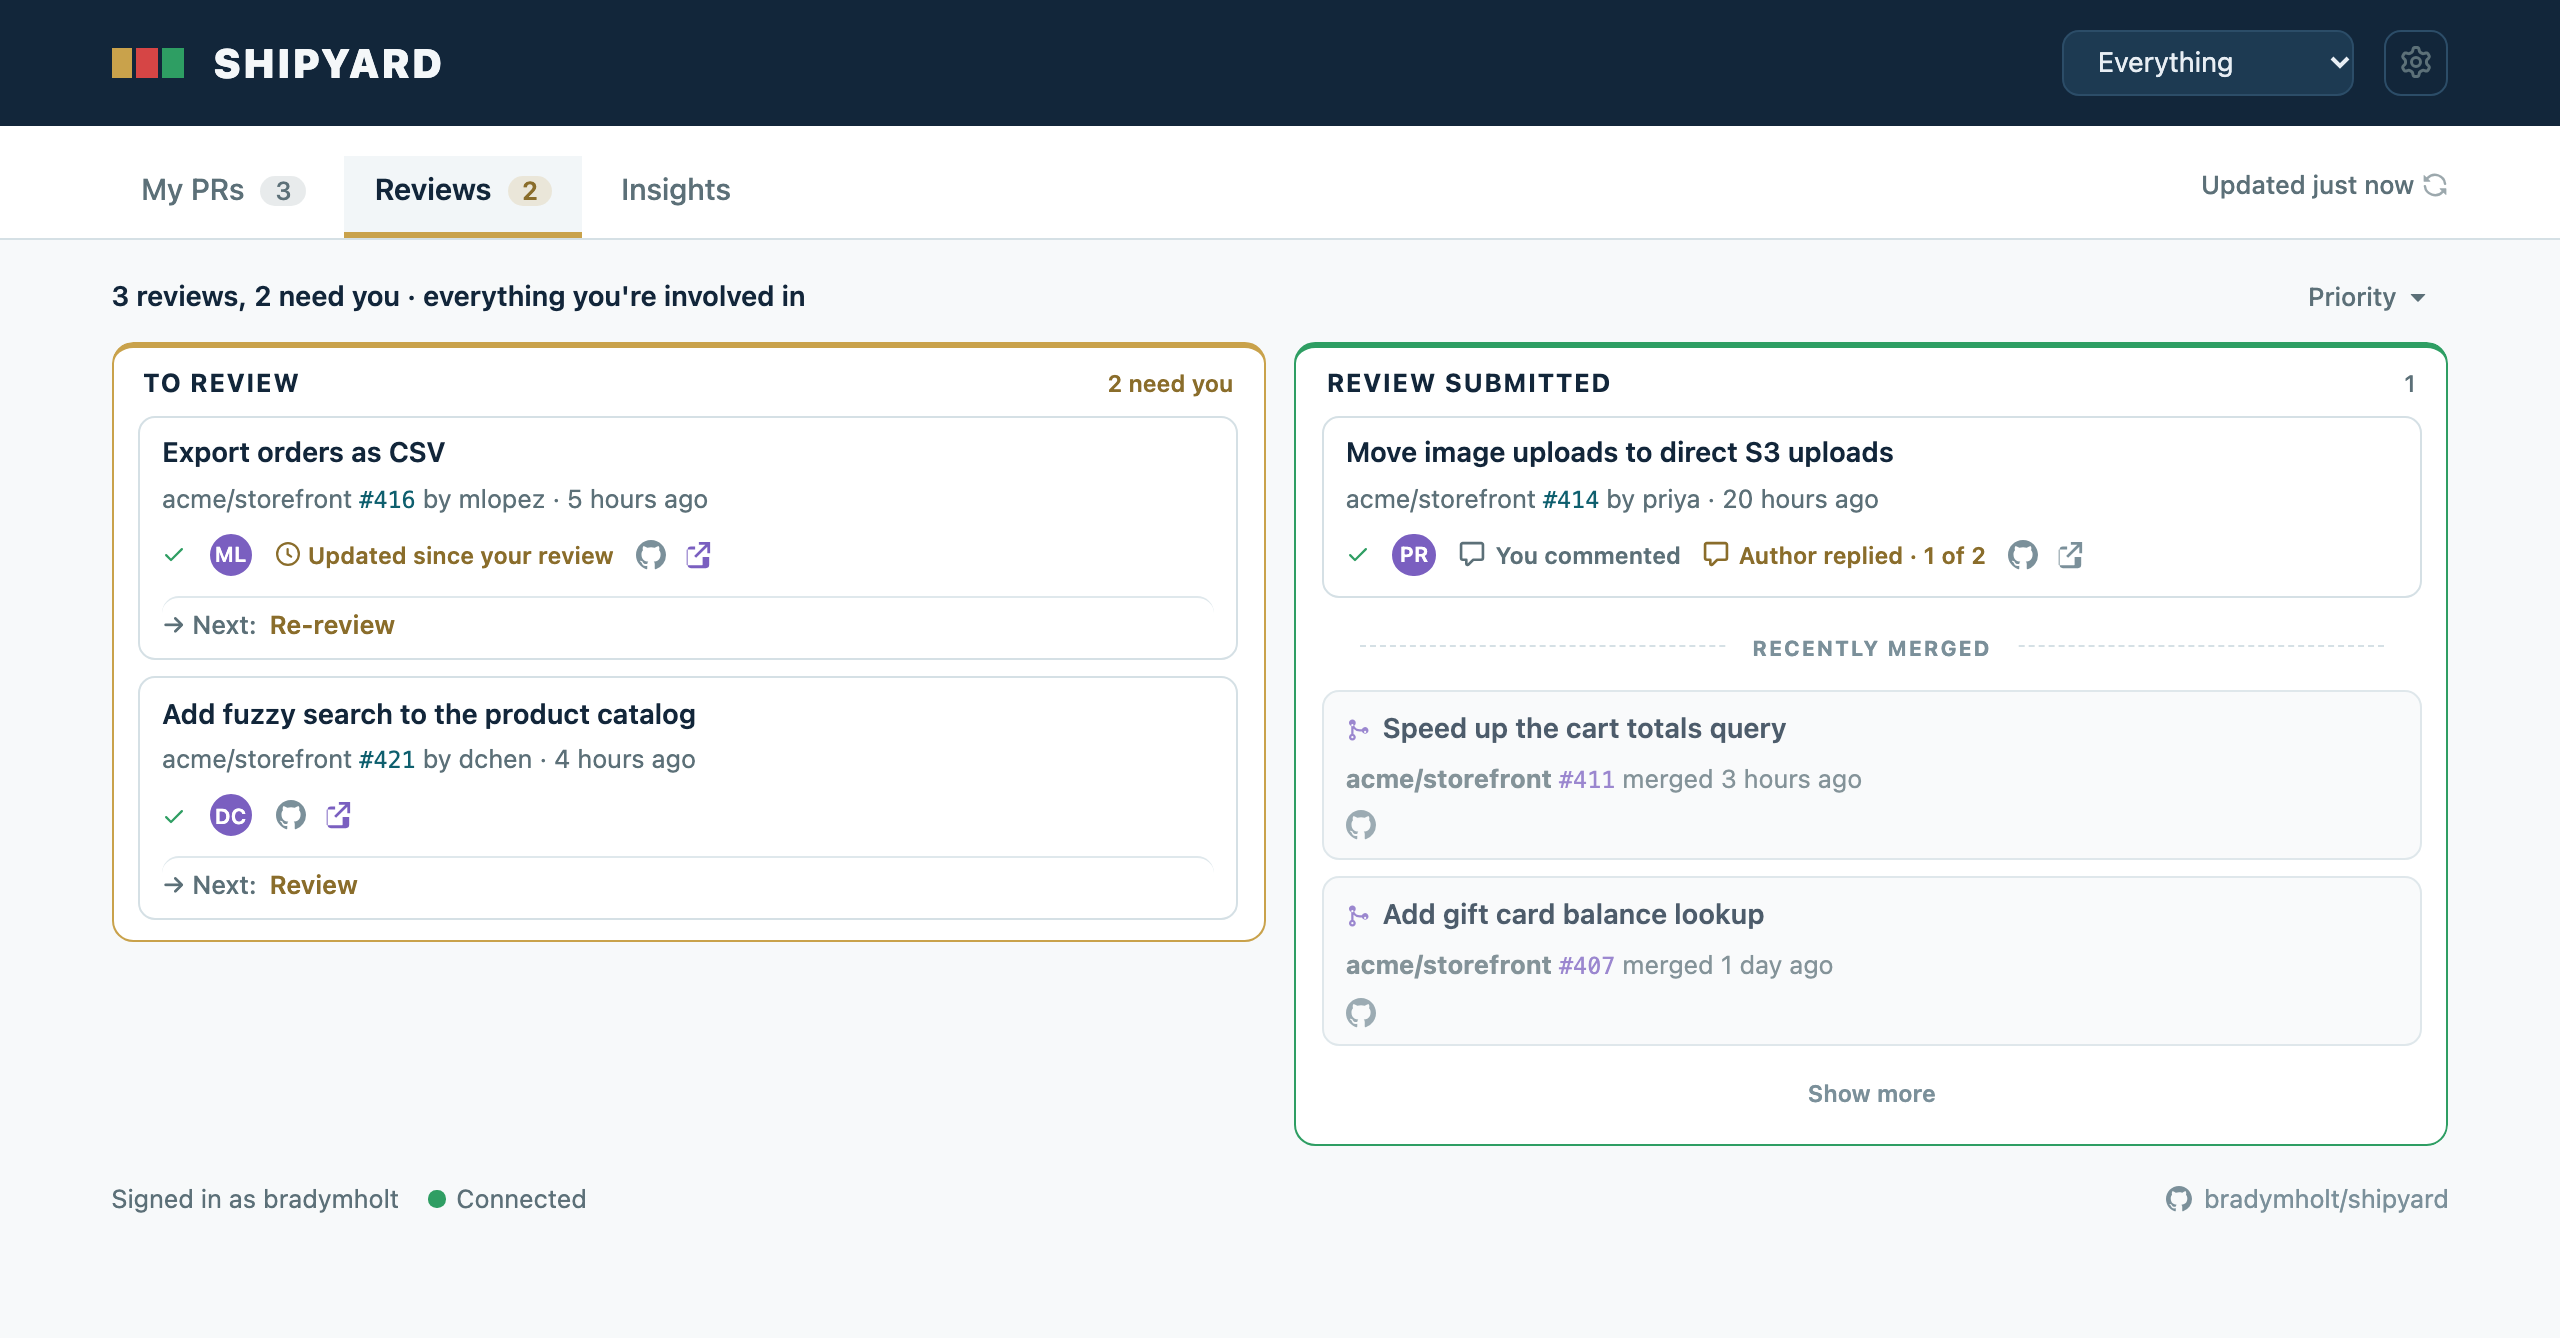
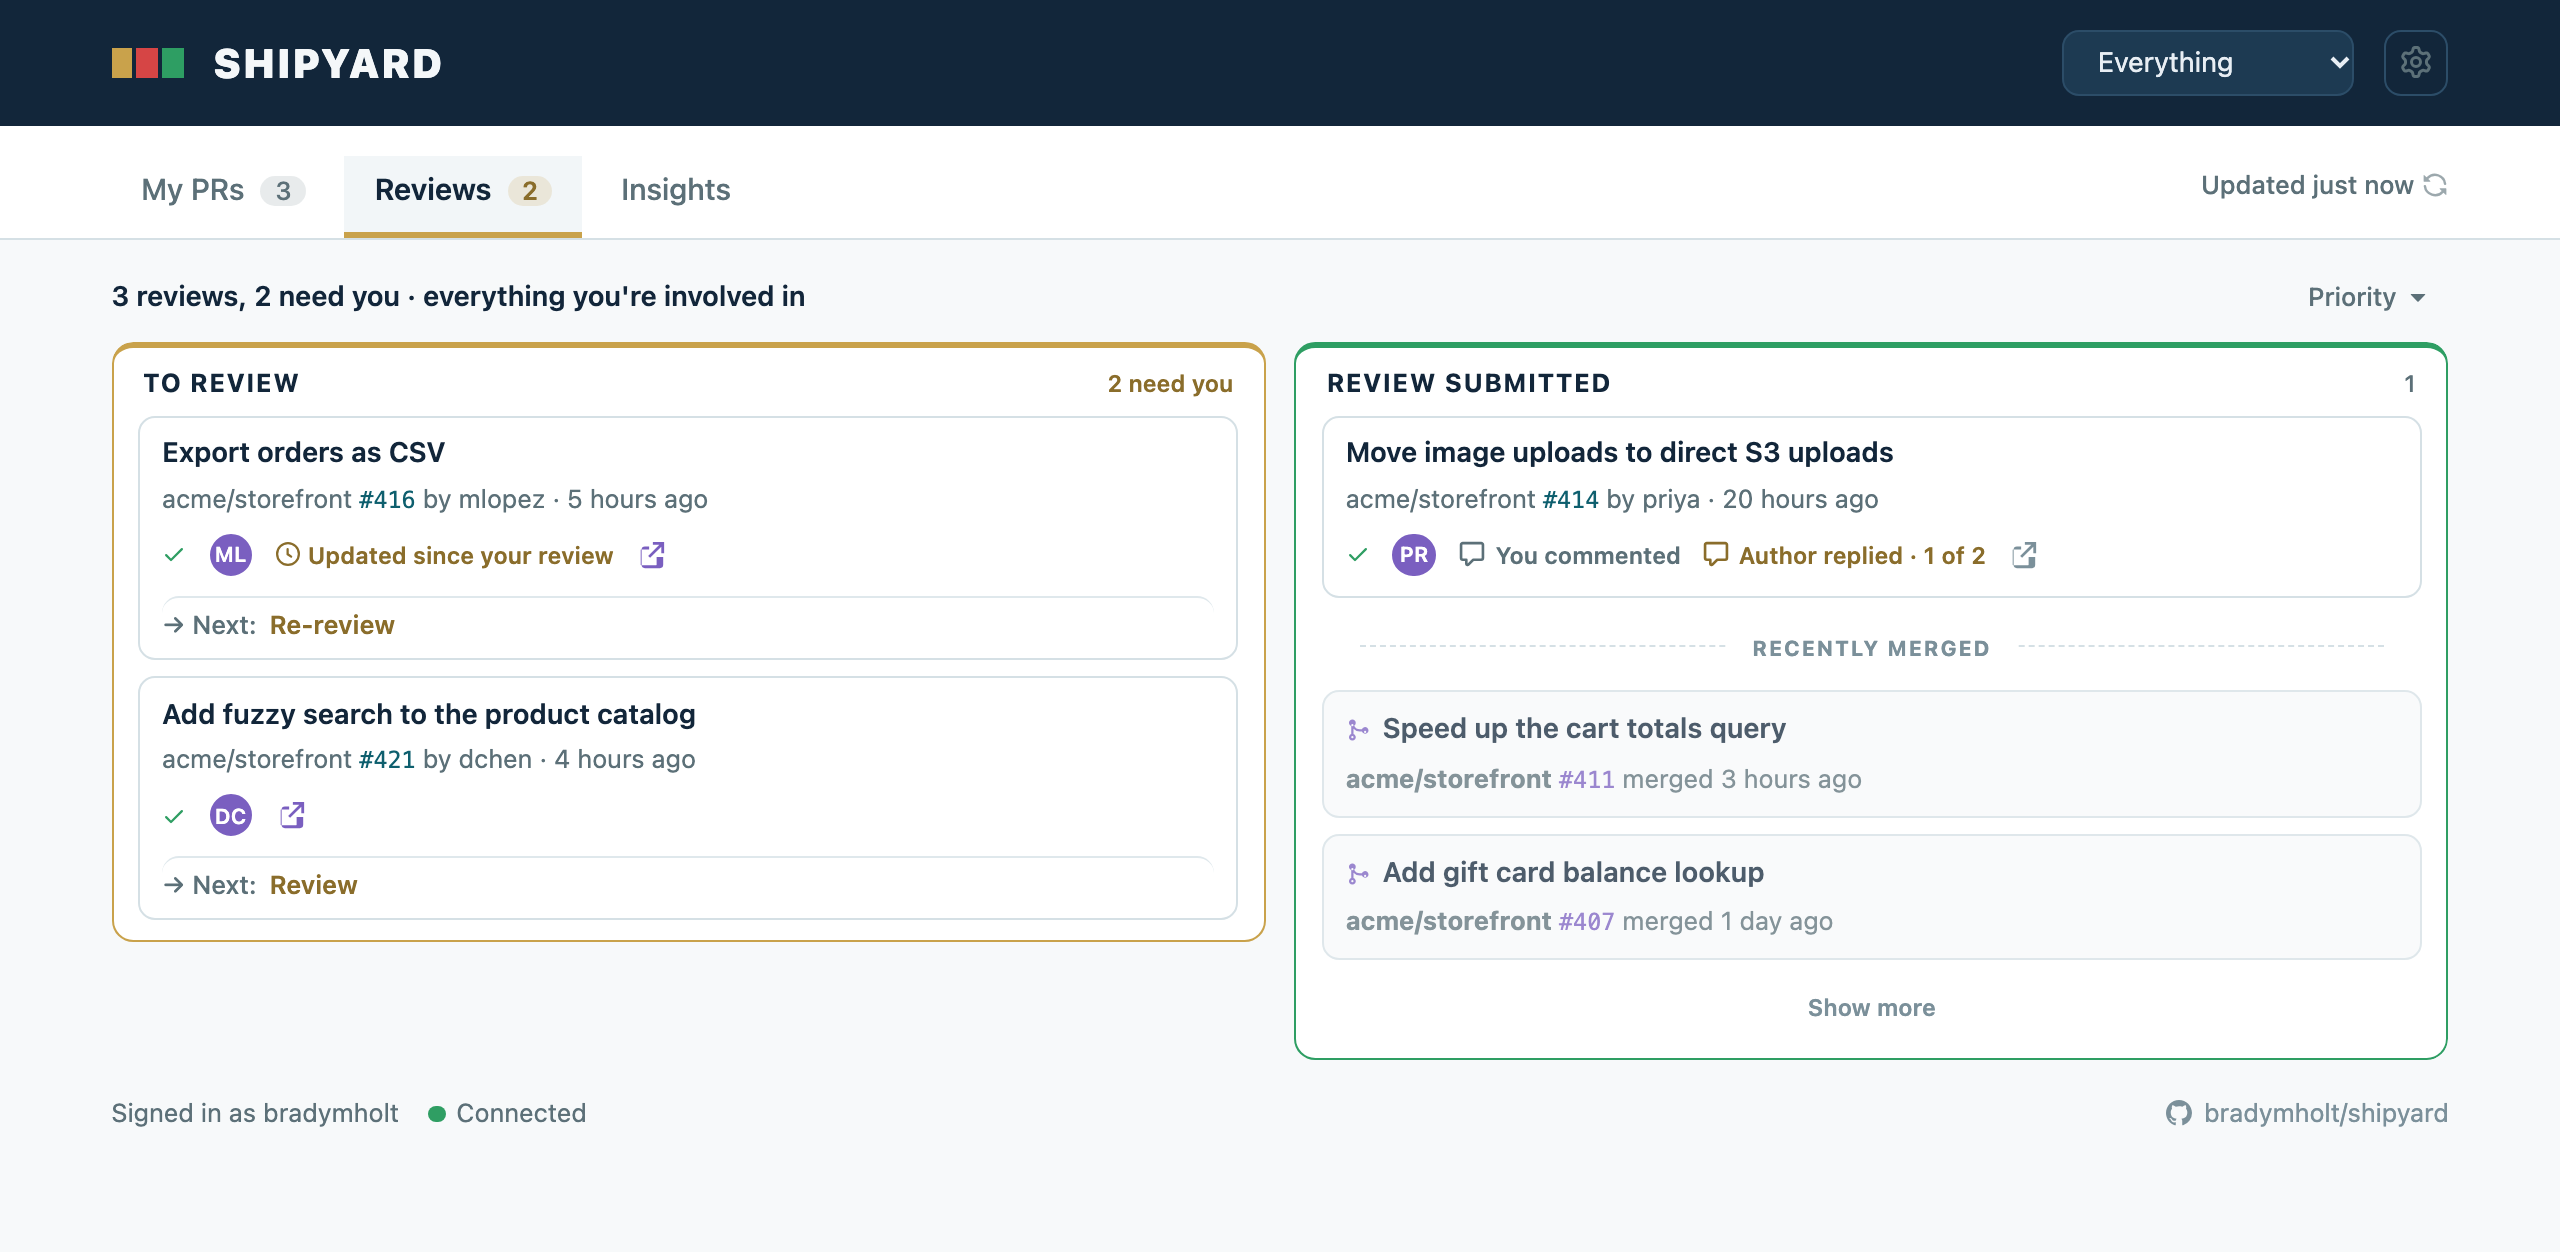
Cut content the card and sidebar showed twice (#226)
A card's GitHub icon opened the same page as its title, and PR session
repeated the summary of the card sitting just above it. The icon is
gone, and the last exchange keeps its summary only once that card is.

With no session pinned, "Re-pin" now reads "Pin a session".

diff --git a/js/board.js b/js/board.js
@@ -1,6 +1,6 @@
 // The board: lanes, cards, and Recently merged.
 import { $, listBody, LS, narrowViewport, state } from "./base.js";
-import { AGENT_ICONS, agoSpan, DEFAULT_AGENT_ICON, EMPTY_ICON, esc, fmtCode, GITHUB_ICON, ICONS, labelColors, LANE_CHEVRON, LAUNCH_ICON, showError, timeAgo } from "./html.js";
+import { AGENT_ICONS, agoSpan, DEFAULT_AGENT_ICON, EMPTY_ICON, esc, fmtCode, ICONS, labelColors, LANE_CHEVRON, LAUNCH_ICON, showError, timeAgo } from "./html.js";
 import { apiCall, apiPost, getCurrentRepo, serverStatusHtml, worktreeFor } from "./server.js";
 import { applyServerPrs, fetchMergedPage, githubProblem, MERGED_INITIAL, MERGED_MAX_PAGES_PER_CLICK, MERGED_SEARCHES, MERGED_STEP, mergeMergedLists, ownerType, prKey, viewTargets } from "./data.js";
 import { agentName, buildStacks, ciOk, serverPr, hasNewCommitsSinceReview, isSnoozed, isUnseen, laneOf, markSeen, matchesFilter, needsYou, nextChip, reviewedMergedItems, reviewItem, reviewLaneOf, reviewRequestedForViewer, sortComparator } from "./prs.js";
@@ -185,17 +185,13 @@ export function openCheckoutButton(wt, label = "") {
     : `<a class="wt-link${mod}" href="${esc(launcherUrl(target))}" title="${esc(title)}">${inner}</a>`;
 }
 
-function githubLink(pr) {
-  return `<a class="wt-link" href="${esc(pr.url)}" target="_blank" rel="noopener" title="Open on GitHub">${GITHUB_ICON}</a>`;
-}
-
 // A merged PR's branch may still be checked out locally, with a session worth
 // returning to for follow-up ideas left in review. Offer only what already exists:
 // no checking out or moving a branch that's done.
 function mergedWorktreeLinks(pr) {
   const wt = worktreeFor(pr);
   const local = wt ? `${agentButton(pr)}${openCheckoutButton(wt)}` : "";
-  return `<div class="card-icons"><span class="wt-links">${githubLink(pr)}${local}</span></div>`;
+  return local && `<div class="card-icons"><span class="wt-links">${local}</span></div>`;
 }
 
 function worktreeLinks(pr) {
@@ -209,13 +205,13 @@ function worktreeLinks(pr) {
   // Already checked out somewhere → open that checkout directly. Green marks the
   // one that's the main repo's current branch.
   if (wt) {
-    return `<span class="wt-links">${githubLink(pr)}${agentButton(pr)}${openCheckoutButton(wt)}</span>`;
+    return `<span class="wt-links">${agentButton(pr)}${openCheckoutButton(wt)}</span>`;
   }
 
   // A review worktree is detached, so it has no branch entry among the pushed worktrees.
   const cp = serverPr(pr);
   if (cp?.path) {
-    return `<span class="wt-links">${githubLink(pr)}${agentButton(pr)}${openCheckoutButton({ path: cp.path, workspace: null, main: false })}</span>`;
+    return `<span class="wt-links">${agentButton(pr)}${openCheckoutButton({ path: cp.path, workspace: null, main: false })}</span>`;
   }
 
   // Not checked out anywhere → open by checking the branch out in the main repo
@@ -225,7 +221,7 @@ function worktreeLinks(pr) {
   const mainBtn = mainWt && mainWt.dirty
     ? `<button class="wt-link wt-main blocked" disabled title="${esc(`Can't check out here — your main clone${mainOn} has uncommitted changes. Commit or stash them there first.`)}">${LAUNCH_ICON}</button>`
     : `<button class="wt-link wt-main" data-repo="${repo}" data-branch="${branch}" title="Check out in your main clone and open in ${esc(state.launcher.name)}">${LAUNCH_ICON}</button>`;
-  return `<span class="wt-links">${githubLink(pr)}${mainBtn}${agentButton(pr)}</span>`;
+  return `<span class="wt-links">${mainBtn}${agentButton(pr)}</span>`;
 }
 
 // Where the owner/repo link goes: on My PRs, your authored PRs; on Reviews, the

diff --git a/js/sidebar.js b/js/sidebar.js
@@ -464,7 +464,7 @@ function sessionSection(pr) {
           <button type="button" data-pin="${esc(key)}">Pin</button><button type="button" class="nc-quiet" data-repin-cancel>Cancel</button></div>`
       : `<div class="sb-empty">No ${esc(agentName())} sessions in this checkout.</div>`;
   }
-  const repin = cp.path ? `<button type="button" class="nc-quiet" data-repin="${esc(key)}">Re-pin</button>` : "";
+  const repin = cp.path ? `<button type="button" class="nc-quiet" data-repin="${esc(key)}">${s ? "Re-pin" : "Pin a session"}</button>` : "";
   let body;
   if (!s) {
     body = `<div class="sb-empty">${cp.path ? `No ${esc(agentName())} session pinned.` : "No local checkout for this PR."}</div>
@@ -472,11 +472,12 @@ function sessionSection(pr) {
   } else {
     const yours = Math.max(0, s.turns - (s.shipyardTurns || 0));
     const ex = cp.exchange;
+    const shownAbove = ex && (cp.cards || []).some((c) => c.pass === ex.pass && c.summary === ex.summary);
     body = `
       <div class="sess-title">${esc(s.title || s.id)}</div>
       <div class="sess-meta"><span class="dot ${s.live ? "ok" : "off"}"></span>${s.live ? "active now" : `idle · ${agoSpan(s.updated * 1000)}`}
         · ${yours} yours · ${s.shipyardTurns || 0} Shipyard's${s.how ? ` · ${esc(HOW_PINNED[s.how] || s.how)}` : ""}</div>
-      ${ex ? `<div class="sess-exchange"><strong>${esc(PASS_LABELS[ex.pass] || ex.pass)}</strong> · ${agoSpan(ex.at)}${ex.mode === "fork" ? " · in a fork" : ""}<br>${fmtCode(clip(ex.summary || "", 280))}</div>` : ""}
+      ${ex ? `<div class="sess-exchange"><strong>${esc(PASS_LABELS[ex.pass] || ex.pass)}</strong> · ${agoSpan(ex.at)}${ex.mode === "fork" ? " · in a fork" : ""}${shownAbove ? "" : `<br>${fmtCode(clip(ex.summary || "", 280))}`}</div>` : ""}
       <div class="nc-actions">${repin}
         <button type="button" class="nc-quiet" data-unpin="${esc(key)}" title="Stop using this session for the PR">Unpin</button>${newSession("nc-quiet")}</div>`;
   }
